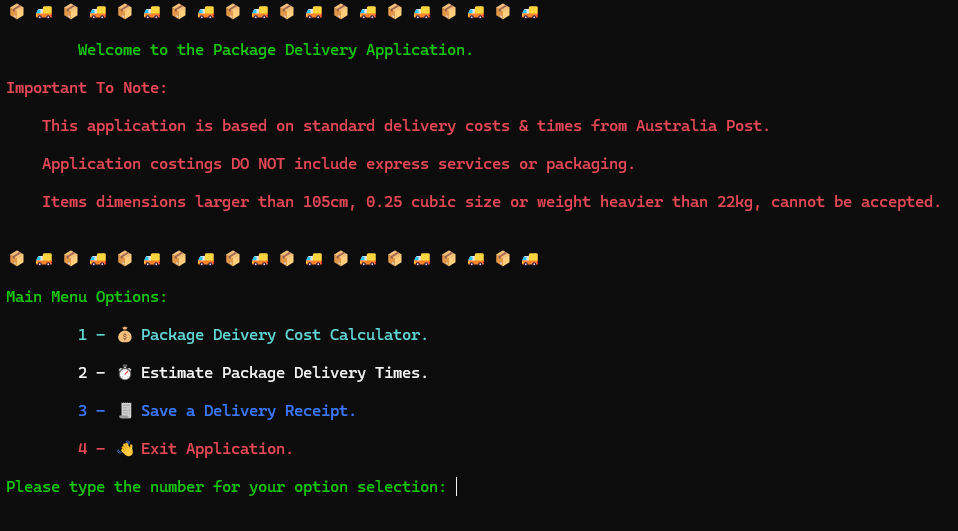
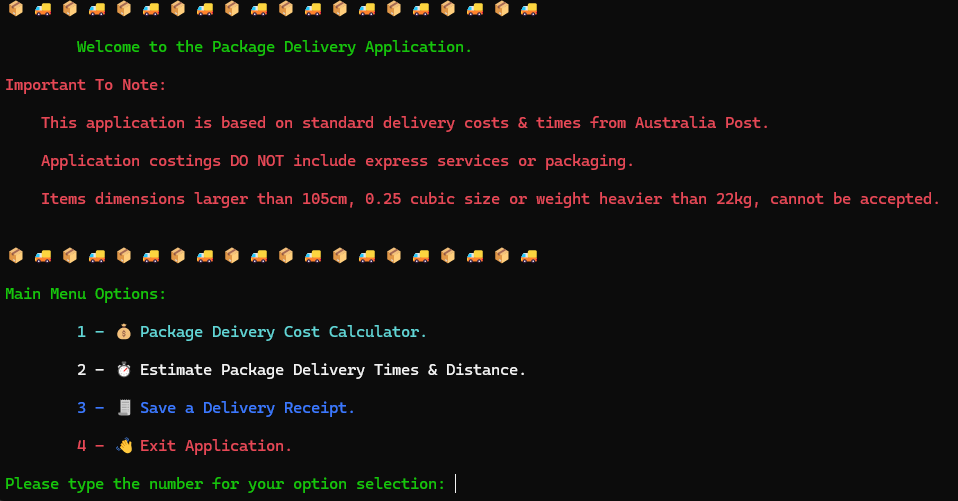
updated readme file with data and images for the distance.py file & functions added

diff --git a/src/timepackage/__init__.py b/src/timepackage/__init__.py
@@ -1,3 +1,4 @@
 from .delivery_times import del_time
 from .distance import km_distance
 
+

diff --git a/README.md b/README.md
@@ -7,7 +7,7 @@
 
 ## Application Scope:
 
-This Package Delivery Application is to provide users an estimated delivery cost and delivery time for any items they are wanting to send within Australia based on their inputs of the package dimensions and weight. Should the user decide to go ahead with the quoted delivery, the application will generate a job delivery ticket number. This ticket number can also be used by the user to save a delivery receipt with all the delivery job details for future reference.
+This Package Delivery Application is to provide users an estimated delivery cost and delivery time & distance for any items they are wanting to send within Australia based on their inputs of the package dimensions and weight. Should the user decide to go ahead with the quoted delivery, the application will generate a job delivery ticket number. This ticket number can also be used by the user to save a delivery receipt with all the delivery job details for future reference.
 
 ## Table Of Contents:
 
@@ -81,17 +81,24 @@ All the user inputs of sender name & contact, receiver name & address, postcodes
 If user enters a 'N' the application will return to the main menu. If 'Y' a random number will be generated, this will be assigned as the job ticket number. The date in a format of dd-mm-yyyy will be assigned to a date_booked variable. Both these will then be added to the delivery_job dictionary. Then the entire delivery_job dictionary will be written as a json file and saved as the ticket number in the delivery_jobs folder. 
 
 ### **Feature Three**:
-**Estimate Package Delivery Times:**
-***Description*** - This feature for Estimate Package Delivery Times will ask the user to enter 2 postcode numbers, the senders postcode and the receivers postcode. Based on the 2 postcodes entered and the postal zones they belong to, the application will display an estimated delivery time in number of days to the user. This feature has been based on the estimates from the Australia Post parcel post delivery estimator grid 2023. These can be viewed from this pdf:
-[Australia Post Transit Grid Delivery Estimator 2023 - Page 2 Parcel Post](https://auspost.com.au/content/dam/auspost_corp/media/documents/domestic-parcels-delivery-estimator.pdf)
+**Estimate Package Delivery Times & Distance:**
+***Description*** - This feature for Estimate Package Delivery Times & Distance will ask the user to enter 2 postcode numbers, the senders postcode and the receivers postcode. Based on the 2 postcodes entered and the postal zones they belong to, the application will display an estimated delivery time in number of days & a estimated distance in kms to the user. The delivery time feature has been based on the estimates from the Australia Post parcel post delivery estimator grid 2023. These can be viewed from this pdf:
+[Australia Post Transit Grid Delivery Estimator 2023 - Page 2 Parcel Post](https://auspost.com.au/content/dam/auspost_corp/media/documents/domestic-parcels-delivery-estimator.pdf).
 
-***Logic*** - In the delivery_estimate.py file, is the del_estimate function. From both the costpackage & timepackage packages, the delivery_estimate file is importing the following functions and their uses:
+The distance in kms is calculated using two processes:
+1. A free Australian postcodes csv database with longitude & latitudes, available here: [Download Free Database of Australian Postcodes](https://www.matthewproctor.com/australian_postcodes)
+2. Using the Haversine formula to find distance between 2 points, available here for Python3: [Haversine formula to find distance between two points on a sphere](https://www.geeksforgeeks.org/haversine-formula-to-find-distance-between-two-points-on-a-sphere/)
+
+***Logic: Delivery Times*** - In the delivery_estimate.py file, is the del_estimate function. From both the costpackage & timepackage packages, the delivery_estimate file is importing the following functions and their uses:
 1. emoji package.
 2. colorama package.
 3. send_code & rece_code functions from the postcode_entry.py file. This is re-used in exactly the same way a what it is in feature one.
 4. del_time function from the delivery_times file. This function will return a specific delivery time in the number of days based on the postal zones the postal codes belong to.
 
 The sender and receiver postcodes inputed from the post_zone function will return the postal zones these postcodes belong to. Then these zones will be used on the delivery_daytimes list of delivery times (for the same zones), which return the estimated delivery times (row, column) between the 2 postal code zones according to the AusPost Transit Grid Delivery Estimator August 2023 update pdf.
+
+***Logic: Distance in kms*** - located in the timepackge folder is the 'australian_postcodes.csv' file and the distance.py file. The delivery_estimate.py file will call the km_distance function = sending the two user postcodes as strings.
+The find_csv function will use these 2 postcodes to return the longitude & latitude for each postcode. These 4 floats are then used in the haversine_distance function to calculate the distance in kms between the 2 postcodes longitudes & latitudes, which is returned to the delivery_estimate file for display. If longitudes & latitudes cannot be found for either postcode will return -1.
 
 ### **Feature Four**:
 ***Save A Delivery Receipt:***
@@ -138,6 +145,10 @@ Trello board - Issues found with error handling & testing, need to rework:
 
 ![Trello board - rework](./docs/Trello%20-%20rework.png)
 
+7/7/2024 decided to add a distance to Feature Three ticket (so rework):
+
+![Trello board - F3 rework](./docs/Trello%20rework%20=%20add%20distance.png)
+
 Trello board - completed:
 
 ![Trello done](./docs/Trello%20done.png)
@@ -155,6 +166,10 @@ Feature Two:
 Feature Three:
 
 ![Feature Three](./docs/Feature%20Three%20ticket%20tasks.png)
+
+Feature Three - rework 7/7/2024:
+
+![F3 rework](./docs/Feature%20three%20ticket%20add%20distance.png)
 
 Feature Four:
 
@@ -224,6 +239,15 @@ Created a file called 'testing.py' and imported Pythons 'unittest' module. The f
 ![zone charge test](./docs/unittest%202.png)
 ![post zone test](./docs/unittest%203.png)
 ![delivery time test](./docs/unittest%204.png)
+
+Manually tested Feature 3 -Distance in kms:
+
+Entered the longitude / latitude details for 2 postcodes, from 'australian_postcodes.csv'Compared, into this haversine calculator website: [Online Haversine - Distance](https://www.vcalc.com/wiki/vcalc/haversine-distance)
+
+Then compared to the number 2 option from main menu:
+
+![Feature3 Distance test](./docs/manual%20test%20Feature%203%20distance.png)
+
 
 ## Help Documentation:
 
@@ -328,13 +352,13 @@ If any one of these are entered by user or calculated, a warning will display ad
 ![dimensions error2](./docs/enter%20dimensions%20errors%204.png)
 ![dimensions error3](./docs/enter%20dimensions%20errors%205.png)
 
-#### Estimate package Delivery Times:
-Selecting number 2 will start the feature of determining an estimated time a package will take to be delivered from one postcode to another within Australia (excluding Norfolk Island).
-The application will ask all the questions required for the users inputs to estimate a time. These will be:
+#### Estimate package Delivery Times & Distance:
+Selecting number 2 will start the feature of determining an estimated time & the distance in kms, a package will take to be delivered from one postcode to another within Australia (excluding Norfolk Island).
+The application will ask all the questions required for the users inputs to estimate a time & distance. These will be:
  - Postcode sending the package from.
  - Postcode the package is being delivered to.
 
-The estimated delivery time will be displayed to the user in 'number of days'.
+The estimated delivery time will be displayed to the user in 'number of days'. The estimated distance between the 2 postcodes will be displayed in 'kms'.
 
 ![number 3](./docs/Feature%20Three%20image.png)
 
@@ -365,6 +389,15 @@ Available at: https://auspost.com.au/content/dam/auspost_corp/media/documents/po
 
 Post, A., 2023, AusPost Transit Grid Delivery Estimator August 2023 update [Online]
 Available at: https://auspost.com.au/content/dam/auspost_corp/media/documents/domestic-parcels-delivery-estimator.pdf
+
+Proctor, M, 2024, Download Free Database of Australian Postcodes [Online]
+Available at:  https://www.matthewproctor.com/australian_postcodes
+
+Prakher, 2022, Haversine formula to find distance between two points on a sphere / Python3 [Online]
+Available at: https://www.geeksforgeeks.org/haversine-formula-to-find-distance-between-two-points-on-a-sphere/
+
+Heckman, K, 2023, Haversine - Distance online calculator [Online]
+Available at:  https://www.vcalc.com/wiki/vcalc/haversine-distance
 
 Trello Board, 2024, T1A3 - Package Delivery App [Online]
 Available at: https://trello.com/b/7mEUfMFB/t1a3-package-delivery-app
